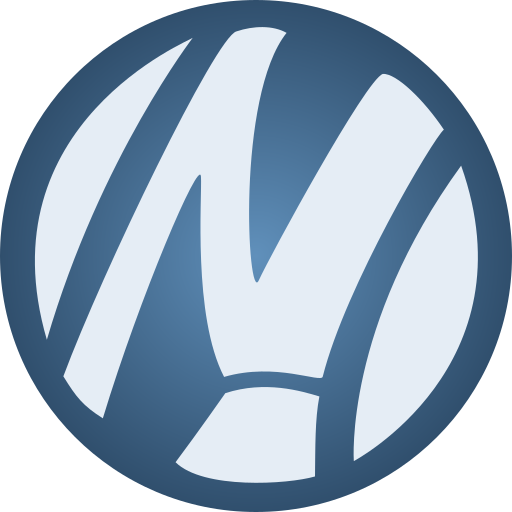
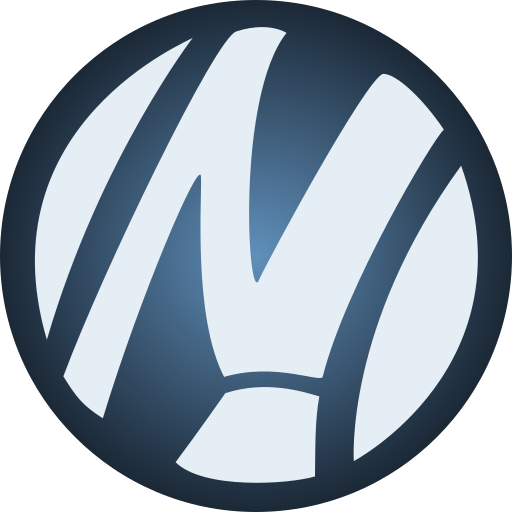
Header redesign

diff --git a/frontend/src/app/privacy/page.tsx b/frontend/src/app/privacy/page.tsx
@@ -1,5 +1,5 @@
 import Link from "next/link";
-import "./style.css"
+import "./privacy.module.css";
 
 export default function Privacy() {
   return (
@@ -35,9 +35,9 @@ export default function Privacy() {
         <h4>Kontaktformular</h4> <p>Wenn Sie uns per Kontaktformular Anfragen zukommen lassen, werden Ihre Angaben aus dem Anfrageformular inklusive der von Ihnen dort angegebenen Kontaktdaten zwecks Bearbeitung der Anfrage und f&uuml;r den Fall von Anschlussfragen bei uns gespeichert. Diese Daten geben wir nicht ohne Ihre Einwilligung weiter.</p> <p>Die Verarbeitung dieser Daten erfolgt auf Grundlage von Art. 6 Abs. 1 lit. b DSGVO, sofern Ihre Anfrage mit der Erf&uuml;llung eines Vertrags zusammenh&auml;ngt oder zur Durchf&uuml;hrung vorvertraglicher Ma&szlig;nahmen erforderlich ist. In allen &uuml;brigen F&auml;llen beruht die Verarbeitung auf unserem berechtigten Interesse an der effektiven Bearbeitung der an uns gerichteten Anfragen (Art. 6 Abs. 1 lit. f DSGVO) oder auf Ihrer Einwilligung (Art. 6 Abs. 1 lit. a DSGVO) sofern diese abgefragt wurde; die Einwilligung ist jederzeit widerrufbar.</p> <p>Die von Ihnen im Kontaktformular eingegebenen Daten verbleiben bei uns, bis Sie uns zur L&ouml;schung auffordern, Ihre Einwilligung zur Speicherung widerrufen oder der Zweck f&uuml;r die Datenspeicherung entf&auml;llt (z.&nbsp;B. nach abgeschlossener Bearbeitung Ihrer Anfrage). Zwingende gesetzliche Bestimmungen &ndash; insbesondere Aufbewahrungsfristen &ndash; bleiben unber&uuml;hrt.</p>
         <h4>Anfrage per E-Mail oder Telefon</h4> <p>Wenn Sie uns per E-Mail oder Telefon kontaktieren, wird Ihre Anfrage inklusive aller daraus hervorgehenden personenbezogenen Daten (Name, Anfrage) zum Zwecke der Bearbeitung Ihres Anliegens bei uns gespeichert und verarbeitet. Diese Daten geben wir nicht ohne Ihre Einwilligung weiter.</p> <p>Die Verarbeitung dieser Daten erfolgt auf Grundlage von Art. 6 Abs. 1 lit. b DSGVO, sofern Ihre Anfrage mit der Erf&uuml;llung eines Vertrags zusammenh&auml;ngt oder zur Durchf&uuml;hrung vorvertraglicher Ma&szlig;nahmen erforderlich ist. In allen &uuml;brigen F&auml;llen beruht die Verarbeitung auf unserem berechtigten Interesse an der effektiven Bearbeitung der an uns gerichteten Anfragen (Art. 6 Abs. 1 lit. f DSGVO) oder auf Ihrer Einwilligung (Art. 6 Abs. 1 lit. a DSGVO) sofern diese abgefragt wurde; die Einwilligung ist jederzeit widerrufbar.</p> <p>Die von Ihnen an uns per Kontaktanfragen &uuml;bersandten Daten verbleiben bei uns, bis Sie uns zur L&ouml;schung auffordern, Ihre Einwilligung zur Speicherung widerrufen oder der Zweck f&uuml;r die Datenspeicherung entf&auml;llt (z.&nbsp;B. nach abgeschlossener Bearbeitung Ihres Anliegens). Zwingende gesetzliche Bestimmungen &ndash; insbesondere gesetzliche Aufbewahrungsfristen &ndash; bleiben unber&uuml;hrt.</p>
         <h3>5. Plugins und Tools</h3>
-        <h4>Google Fonts</h4> <p>Diese Seite nutzt zur einheitlichen Darstellung von Schriftarten so genannte Google Fonts, die von Google bereitgestellt werden. Beim Aufruf einer Seite l&auml;dt Ihr Browser die ben&ouml;tigten Fonts in ihren Browsercache, um Texte und Schriftarten korrekt anzuzeigen.</p> <p>Zu diesem Zweck muss der von Ihnen verwendete Browser Verbindung zu den Servern von Google aufnehmen. Hierdurch erlangt Google Kenntnis dar&uuml;ber, dass &uuml;ber Ihre IP-Adresse diese Website aufgerufen wurde. Die Nutzung von Google Fonts erfolgt auf Grundlage von Art. 6 Abs. 1 lit. f DSGVO. Der Websitebetreiber hat ein berechtigtes Interesse an der einheitlichen Darstellung des Schriftbildes auf seiner Website. Sofern eine entsprechende Einwilligung abgefragt wurde, erfolgt die Verarbeitung ausschlie&szlig;lich auf Grundlage von Art. 6 Abs. 1 lit. a DSGVO und &sect; 25 Abs. 1 TTDSG, soweit die Einwilligung die Speicherung von Cookies oder den Zugriff auf Informationen im Endger&auml;t des Nutzers (z.&nbsp;B. Device-Fingerprinting) im Sinne des TTDSG umfasst. Die Einwilligung ist jederzeit widerrufbar.</p> <p>Wenn Ihr Browser Google Fonts nicht unterst&uuml;tzt, wird eine Standardschrift von Ihrem Computer genutzt.</p> <p>Weitere Informationen zu Google Fonts finden Sie unter <a href="https://developers.google.com/fonts/faq" target="_blank" rel="noopener noreferrer">https://developers.google.com/fonts/faq</a> und in der Datenschutzerkl&auml;rung von Google: <a href="https://policies.google.com/privacy?hl=de" target="_blank" rel="noopener noreferrer">https://policies.google.com/privacy?hl=de</a>.</p>
-        <p>Das Unternehmen verf&uuml;gt &uuml;ber eine Zertifizierung nach dem &bdquo;EU-US Data Privacy Framework&ldquo; (DPF). Der DPF ist ein &Uuml;bereinkommen zwischen der Europ&auml;ischen Union und den USA, der die Einhaltung europ&auml;ischer Datenschutzstandards bei Datenverarbeitungen in den USA gew&auml;hrleisten soll. Jedes nach dem DPF zertifizierte Unternehmen verpflichtet sich, diese Datenschutzstandards einzuhalten. Weitere Informationen hierzu erhalten Sie vom Anbieter unter folgendem Link: <a href="https://www.dataprivacyframework.gov/s/participant-search/participant-detail?contact=true&id=a2zt000000001L5AAI&status=Active" target="_blank" rel="noopener noreferrer">https://www.dataprivacyframework.gov/s/participant-search/participant-detail?contact=true&id=a2zt000000001L5AAI&status=Active</a></p>
-        <h4>Font Awesome</h4> <p>Diese Seite nutzt zur einheitlichen Darstellung von Schriftarten und Symbolen Font Awesome. Anbieter ist die Fonticons, Inc., 6 Porter Road Apartment 3R, Cambridge, Massachusetts, USA.</p> <p>Beim Aufruf einer Seite l&auml;dt Ihr Browser die ben&ouml;tigten Fonts in ihren Browsercache, um Texte, Schriftarten und Symbole korrekt anzuzeigen. Zu diesem Zweck muss der von Ihnen verwendete Browser Verbindung zu den Servern von Font Awesome aufnehmen. Hierdurch erlangt Font Awesome Kenntnis dar&uuml;ber, dass &uuml;ber Ihre IP-Adresse diese Website aufgerufen wurde. Die Nutzung von Font Awesome erfolgt auf Grundlage von Art. 6 Abs. 1 lit. f DSGVO. Wir haben ein berechtigtes Interesse an der einheitlichen Darstellung des Schriftbildes auf unserer Website. Sofern eine entsprechende Einwilligung abgefragt wurde, erfolgt die Verarbeitung ausschlie&szlig;lich auf Grundlage von Art. 6 Abs. 1 lit. a DSGVO und &sect; 25 Abs. 1 TTDSG, soweit die Einwilligung die Speicherung von Cookies oder den Zugriff auf Informationen im Endger&auml;t des Nutzers (z.&nbsp;B. Device-Fingerprinting) im Sinne des TTDSG umfasst. Die Einwilligung ist jederzeit widerrufbar.</p> <p>Wenn Ihr Browser Font Awesome nicht unterst&uuml;tzt, wird eine Standardschrift von Ihrem Computer genutzt.</p> <p>Weitere Informationen zu Font Awesome finden Sie&nbsp;und in der Datenschutzerkl&auml;rung von Font Awesome unter: <a href="https://fontawesome.com/privacy" target="_blank" rel="noopener noreferrer">https://fontawesome.com/privacy</a>.</p>
+        <h4>Google Fonts</h4> <p>Diese Seite nutzt zur einheitlichen Darstellung von Schriftarten so genannte Google Fonts, die von Google bereitgestellt werden. Beim Aufruf einer Seite l&auml;dt Ihr Browser die ben&ouml;tigten Fonts in ihren Browsercache, um Texte und Schriftarten korrekt anzuzeigen.</p> <p>Zu diesem Zweck muss der von Ihnen verwendete Browser Verbindung zu den Servern von Google aufnehmen. Hierdurch erlangt Google Kenntnis dar&uuml;ber, dass &uuml;ber Ihre IP-Adresse diese Website aufgerufen wurde. Die Nutzung von Google Fonts erfolgt auf Grundlage von Art. 6 Abs. 1 lit. f DSGVO. Der Websitebetreiber hat ein berechtigtes Interesse an der einheitlichen Darstellung des Schriftbildes auf seiner Website. Sofern eine entsprechende Einwilligung abgefragt wurde, erfolgt die Verarbeitung ausschlie&szlig;lich auf Grundlage von Art. 6 Abs. 1 lit. a DSGVO und &sect; 25 Abs. 1 TTDSG, soweit die Einwilligung die Speicherung von Cookies oder den Zugriff auf Informationen im Endger&auml;t des Nutzers (z.&nbsp;B. Device-Fingerprinting) im Sinne des TTDSG umfasst. Die Einwilligung ist jederzeit widerrufbar.</p> <p>Wenn Ihr Browser Google Fonts nicht unterst&uuml;tzt, wird eine Standardschrift von Ihrem Computer genutzt.</p> <p>Weitere Informationen zu Google Fonts finden Sie unter <a href="https://developers.google.com/fonts/faq" target="_blank" rel="noopener noreferrer" className="hover:underline">https://developers.google.com/fonts/faq</a> und in der Datenschutzerkl&auml;rung von Google: <a href="https://policies.google.com/privacy?hl=de" target="_blank" rel="noopener noreferrer" className="hover:underline">https://policies.google.com/privacy?hl=de</a>.</p>
+        <p>Das Unternehmen verf&uuml;gt &uuml;ber eine Zertifizierung nach dem &bdquo;EU-US Data Privacy Framework&ldquo; (DPF). Der DPF ist ein &Uuml;bereinkommen zwischen der Europ&auml;ischen Union und den USA, der die Einhaltung europ&auml;ischer Datenschutzstandards bei Datenverarbeitungen in den USA gew&auml;hrleisten soll. Jedes nach dem DPF zertifizierte Unternehmen verpflichtet sich, diese Datenschutzstandards einzuhalten. Weitere Informationen hierzu erhalten Sie vom Anbieter unter folgendem Link: <a href="https://www.dataprivacyframework.gov/s/participant-search/participant-detail?contact=true&id=a2zt000000001L5AAI&status=Active" target="_blank" rel="noopener noreferrer" className="hover:underline">https://www.dataprivacyframework.gov/s/participant-search/participant-detail?contact=true&id=a2zt000000001L5AAI&status=Active</a></p>
+        <h4>Font Awesome</h4> <p>Diese Seite nutzt zur einheitlichen Darstellung von Schriftarten und Symbolen Font Awesome. Anbieter ist die Fonticons, Inc., 6 Porter Road Apartment 3R, Cambridge, Massachusetts, USA.</p> <p>Beim Aufruf einer Seite l&auml;dt Ihr Browser die ben&ouml;tigten Fonts in ihren Browsercache, um Texte, Schriftarten und Symbole korrekt anzuzeigen. Zu diesem Zweck muss der von Ihnen verwendete Browser Verbindung zu den Servern von Font Awesome aufnehmen. Hierdurch erlangt Font Awesome Kenntnis dar&uuml;ber, dass &uuml;ber Ihre IP-Adresse diese Website aufgerufen wurde. Die Nutzung von Font Awesome erfolgt auf Grundlage von Art. 6 Abs. 1 lit. f DSGVO. Wir haben ein berechtigtes Interesse an der einheitlichen Darstellung des Schriftbildes auf unserer Website. Sofern eine entsprechende Einwilligung abgefragt wurde, erfolgt die Verarbeitung ausschlie&szlig;lich auf Grundlage von Art. 6 Abs. 1 lit. a DSGVO und &sect; 25 Abs. 1 TTDSG, soweit die Einwilligung die Speicherung von Cookies oder den Zugriff auf Informationen im Endger&auml;t des Nutzers (z.&nbsp;B. Device-Fingerprinting) im Sinne des TTDSG umfasst. Die Einwilligung ist jederzeit widerrufbar.</p> <p>Wenn Ihr Browser Font Awesome nicht unterst&uuml;tzt, wird eine Standardschrift von Ihrem Computer genutzt.</p> <p>Weitere Informationen zu Font Awesome finden Sie&nbsp;und in der Datenschutzerkl&auml;rung von Font Awesome unter: <a href="https://fontawesome.com/privacy" target="_blank" rel="noopener noreferrer" className="hover:underline">https://fontawesome.com/privacy</a>.</p>
 
         <p className="pt-4 font-semibold">Stand: 17.03.2024</p>
       </div>

diff --git a/frontend/src/app/components/header.tsx b/frontend/src/app/components/header.tsx
@@ -1,19 +1,26 @@
 import Image from "next/image";
 import Link from "next/link";
+import { FaMagnifyingGlass, FaList } from "react-icons/fa6";
 
 export default function Header() {
   return (
     <header className="flex justify-between">
       <Link href="/" className="flex items-center space-x-5">
-        <Image src="/logo-dark.png" alt="logo" width={60} height={60}></Image>
-        <h1 className="text-4xl font-bold bg-gradient-to-r bg-clip-text text-transparent
-      from-text to-secondary">
+        <Image src="/logo-128.png" alt="logo" width={60} height={60}></Image>
+        <h1 className="text-4xl font-bold bg-gradient-to-br bg-clip-text text-transparent
+      from-text to-text-shaded">
           Frag Nikogenia
         </h1>
       </Link>
-      <nav className="flex items-center space-x-5 text-xl">
-        <Link href="/" className="hover:underline">Suche</Link>
-        <Link href="/list" className="hover:underline">Liste</Link>
+      <nav className="flex items-center space-x-10">
+        <Link href="/" className="flex flex-col items-center justify-center space-y-1">
+          <FaMagnifyingGlass className="text-3xl"></FaMagnifyingGlass>
+          <div className="hover:underline">Suche</div>
+        </Link>
+        <Link href="/list" className="flex flex-col items-center justify-center space-y-1">
+          <FaList className="text-3xl"></FaList>
+          <div className="hover:underline">Liste</div>
+        </Link>
       </nav>
     </header>
   );

diff --git a/frontend/src/app/page.tsx b/frontend/src/app/page.tsx
@@ -1,19 +1,20 @@
 "use client"
 
 import Image from "next/image";
-import { useState } from "react";
+import { useRef, useState } from "react";
 
 export default function Home() {
 
   const [entries, setEntries] = useState([])
+  const search = useRef(null)
 
   return (
     <main className="flex flex-col items-center p-12">
-      <input placeholder="Suchen" autoFocus
+      <input placeholder="Suchen" autoFocus ref={search}
       className="bg-text placeholder-secondary text-primary w-96 py-2 px-4
       font-mono font-semibold rounded-md border-secondary border-2 mb-16"></input>
       {
-        <Idle></Idle> ? entries.length == 0 : <Entries></Entries>
+        (entries.length == 0) ? <Idle></Idle> : <Entries></Entries>
       }
     </main>
   )
@@ -21,10 +22,10 @@ export default function Home() {
 
 function Idle() {
   return (
-    <div>
-      <img src="/logo-dark.png" alt="logo" width={200} height={200}></img>
-      <div className="text-2xl font-semibold bg-gradient-to-r bg-clip-text text-transparent
-      from-text to-secondary mt-8">
+    <div className="flex flex-col items-center">
+      <img src="/logo-256.png" alt="logo" width={200} height={200}></img>
+      <div className="text-2xl font-semibold bg-gradient-to-br bg-clip-text text-transparent
+      from-text to-text-shaded mt-8">
         Online Latein-Deutsch Wörterbuch
       </div>
     </div>

diff --git a/frontend/src/app/layout.tsx b/frontend/src/app/layout.tsx
@@ -30,7 +30,7 @@ export default function RootLayout({
   return (
     <html lang="de">
       <body className={`${inter.variable} ${roboto_mono.variable}
-      font-sans bg-background text-text p-16`}>
+      font-sans bg-background text-text p-8 md:p-16`}>
         <Header></Header>
         {children}
         <Footer></Footer>

diff --git a/frontend/tailwind.config.ts b/frontend/tailwind.config.ts
@@ -9,7 +9,8 @@ const config: Config = {
   theme: {
     colors: {
       'text': '#E1EFFF',
-      'background': '#10263D',
+      'text-shaded': '#A7D0FF',
+      'background': '#1b2836',
       'primary': '#3981c8',
       'secondary': '#78b0e8',
       'accent': '#f0aa64',

diff --git a/frontend/src/app/contact/page.tsx b/frontend/src/app/contact/page.tsx
@@ -1,0 +1,11 @@
+import Image from "next/image";
+
+export default function Contact() {
+  return (
+    <main className="">
+      <div>
+        Kontakt
+      </div>
+    </main>
+  );
+}
